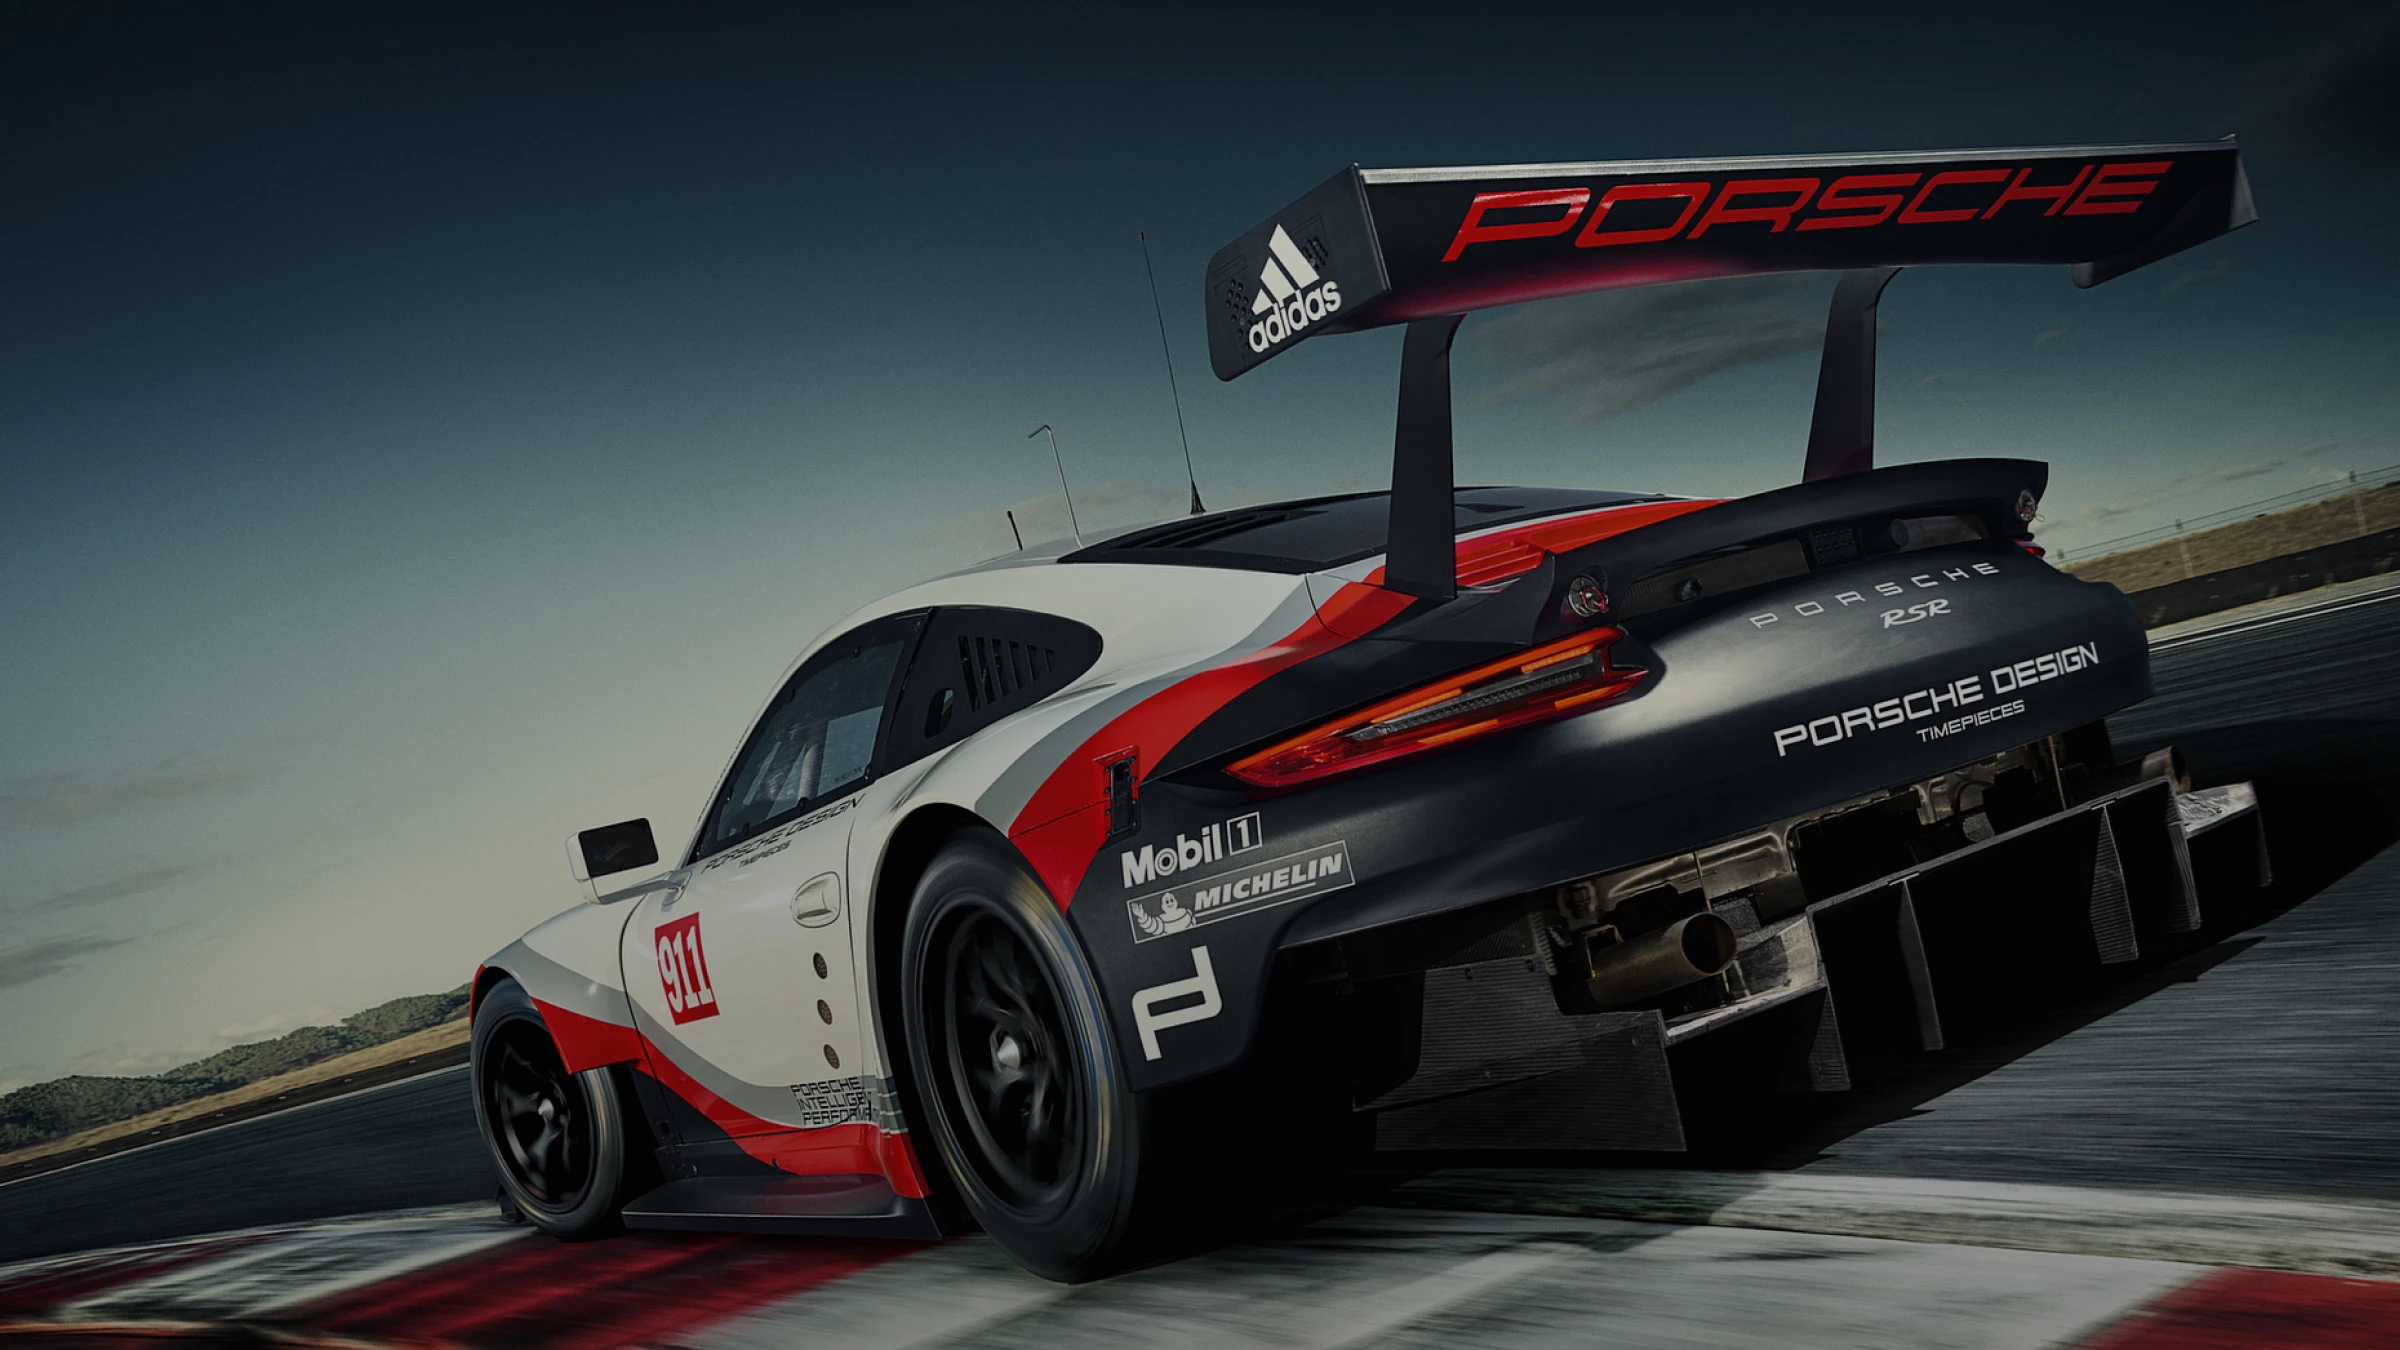
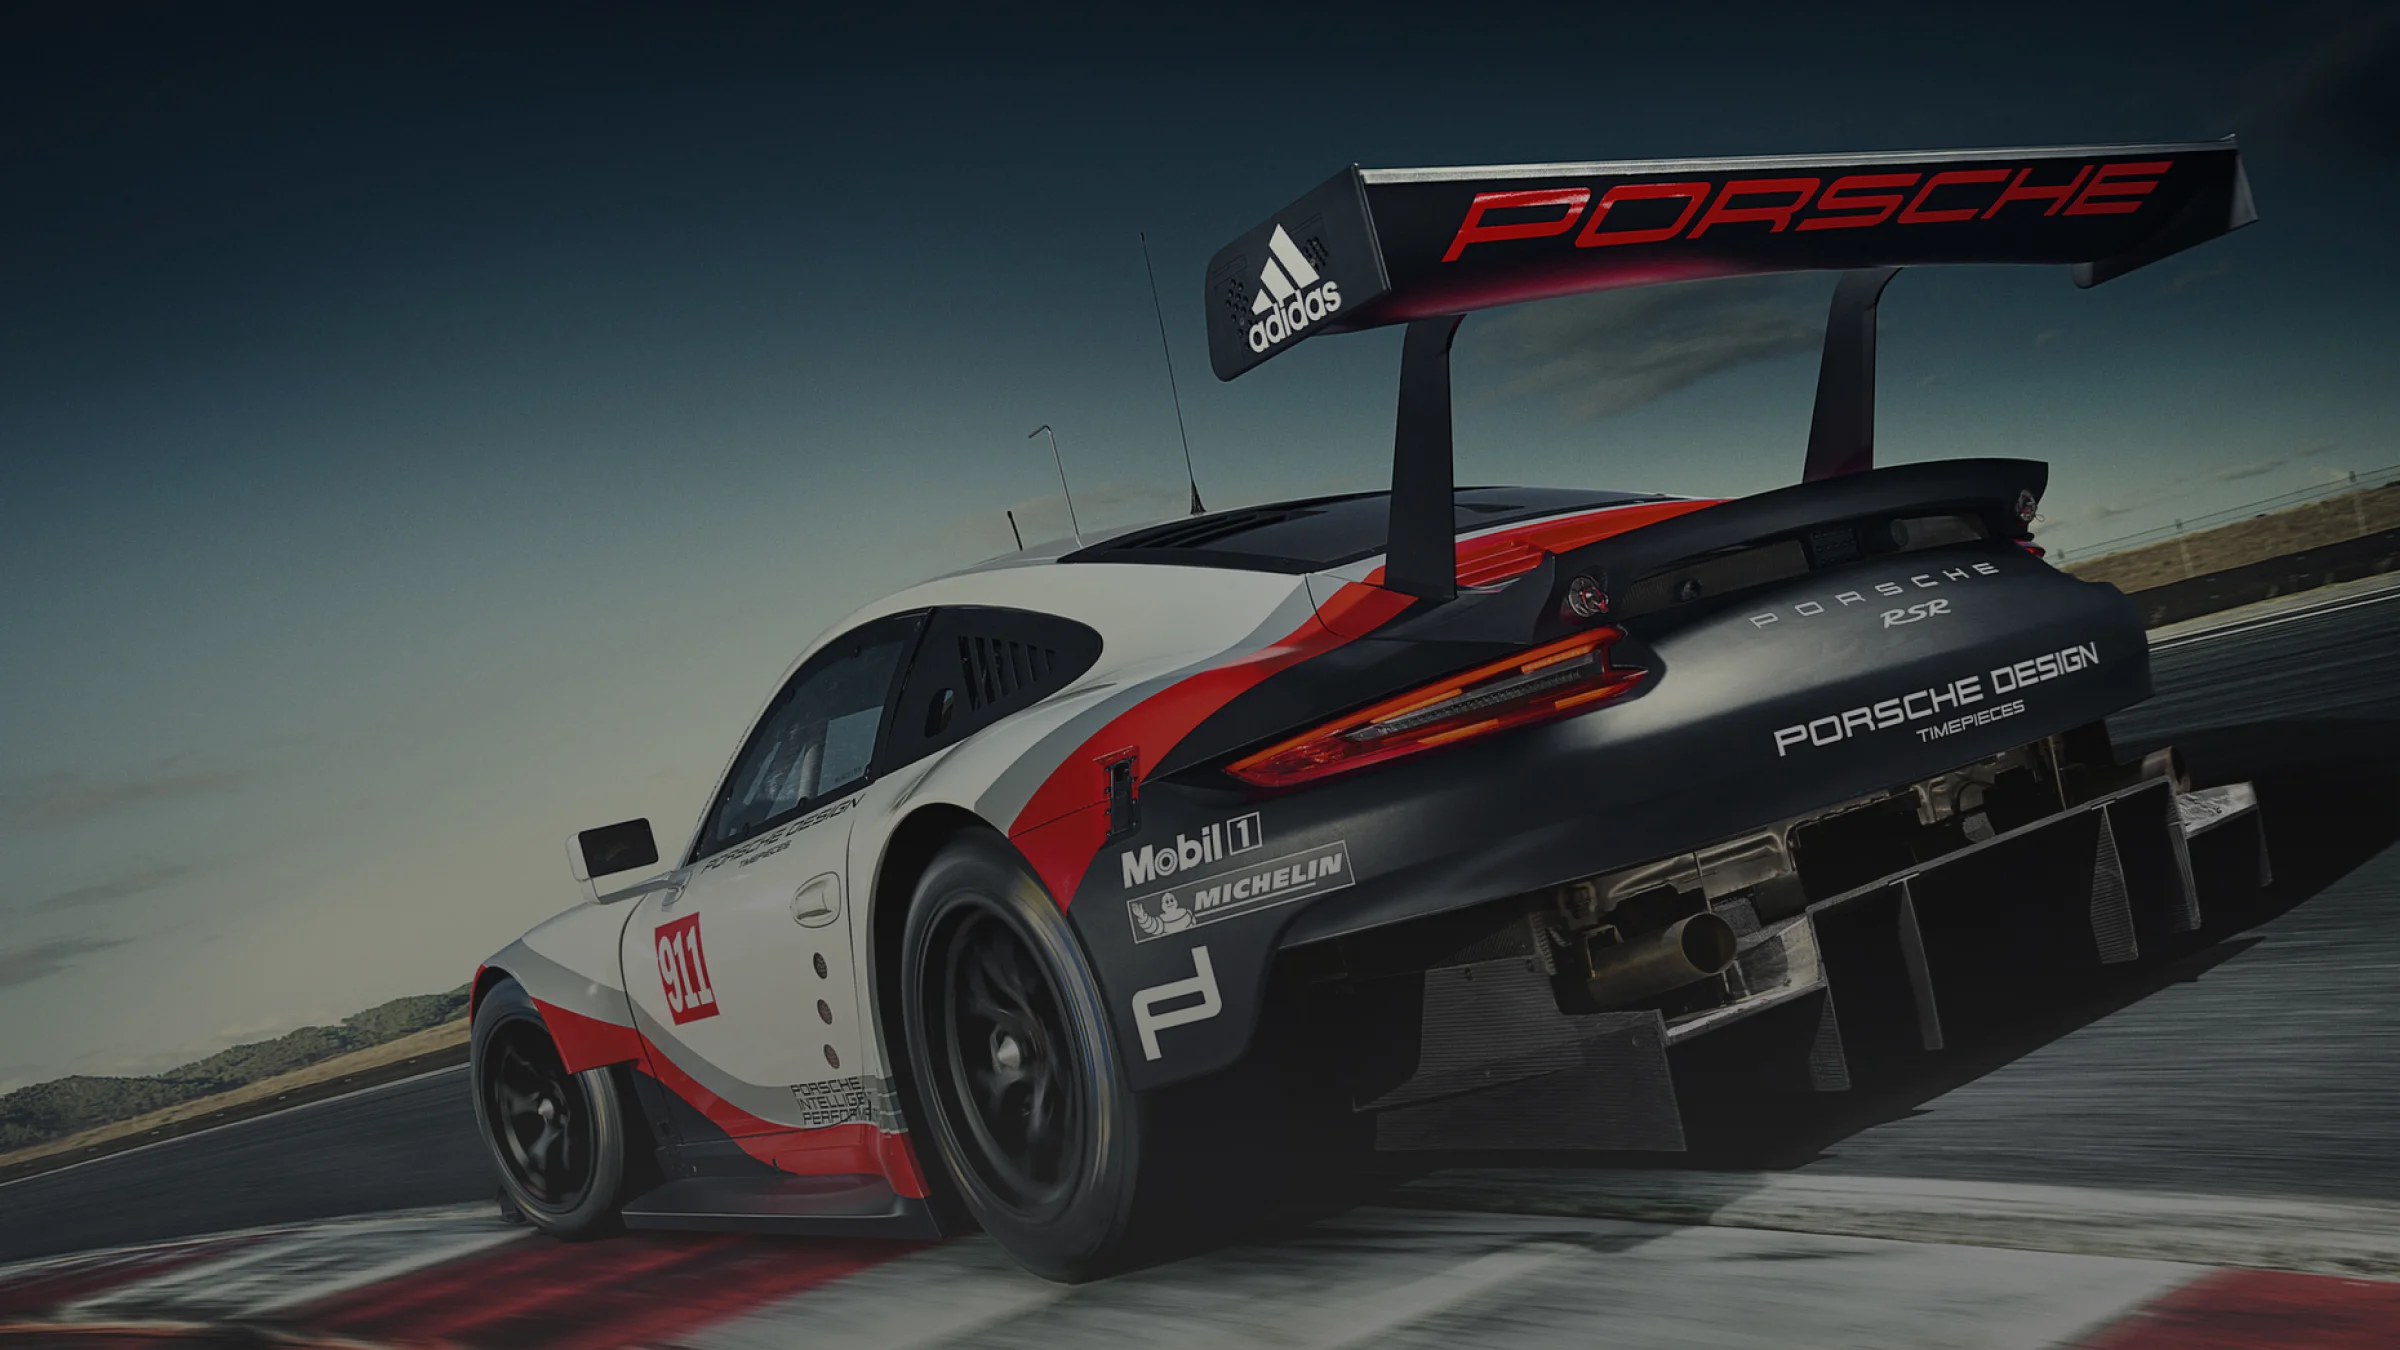
New image base and Lap blocker when clock is stopped

Changed region(s): [[0.0, 0.7778, 0.7812, 1.0]]

diff --git a/public/css/styles.css b/public/css/styles.css
@@ -19,7 +19,8 @@ body {
 	color:#fff;
 }
 #bkg {
-    background: url('/images/base-img.webp') no-repeat center center;
+    background: url('/images/base-img-2.webp') no-repeat center center;
+    background-size: cover;
     position: absolute;
     top:0;
     left: 0;
@@ -33,6 +34,9 @@ body {
     font-weight: 300;
     /* font-size: 4.583vw; */
     font-size: calc(48px + (140 - 48) * ((100vw - 800px) / (1920 - 800)));
+    width: 100%;
+    margin: 2rem 0 0;
+    text-shadow: 0 5px 30px rgba(0,0,0,1)
 }
 .row {
 	margin: 0;
@@ -152,7 +156,7 @@ body {
     border:0;
     background: rgba(0, 0, 0, 0.5);
     backdrop-filter: blur(15px);
-    font-size: 1.75rem;
+    font-size: 2rem;
     color: #fff;
     font-weight: 500;
     width: 100%;
@@ -213,7 +217,7 @@ body {
     display: flex;
     margin: 0;
     padding: 20px 1.125rem 2px;
-    font-size: 1.25rem;
+    font-size: 1.5rem;
     font-weight: 500;
     height: 59px;
 }
@@ -227,7 +231,7 @@ body {
     padding: 7px 0.5rem 5px;
     margin: 0 10px 3px;
     background: rgba(0,0,0,0.2);
-    font-size: 1.75rem;
+    font-size: 2rem;
     font-weight: 300;
     position: relative;
 }
@@ -274,11 +278,6 @@ span.fastestLap {
     flex-direction: row;
     flex-wrap: wrap;
     max-height: 100%;
-}
-
-.timer {
-    width: 100%;
-    margin: 2rem 0 0;
 }
 
 .controls {

diff --git a/public/js/timer-worker.js b/public/js/timer-worker.js
@@ -1,9 +1,11 @@
 var timeStart;
 var timer;
 var raceTimer = 0;
+var running = false;
 
 self.onmessage = function(e) {
     if (e.data.function == 'start') {
+        running = true;
         timeStart = performance.now();
         splitsL1 = [{raceTime: 0, lapSplit: 0}];
         timer = setInterval(() => {
@@ -12,13 +14,14 @@ self.onmessage = function(e) {
             self.postMessage({function: 'timer', value: raceTimer});
         }, 3)
     }
-    if (e.data.function == 'lap') {
+    if ((e.data.function == 'lap') && (running)) {
         var prevLapTime = splitsL1[splitsL1.length - 1].raceTime;
         var lap = raceTimer - prevLapTime;
         splitsL1.push({raceTime: raceTimer, lapSplit: lap}); 
         self.postMessage({function: 'lap', value: lap, raceTime:raceTimer, lane: e.data.lane, num: splitsL1.length - 1});
     }
     if (e.data.function == 'stop') {
+        running = false;
         splitsL1 = [{raceTime: 0, lapSplit: 0}];
         clearInterval(timer);
     }
